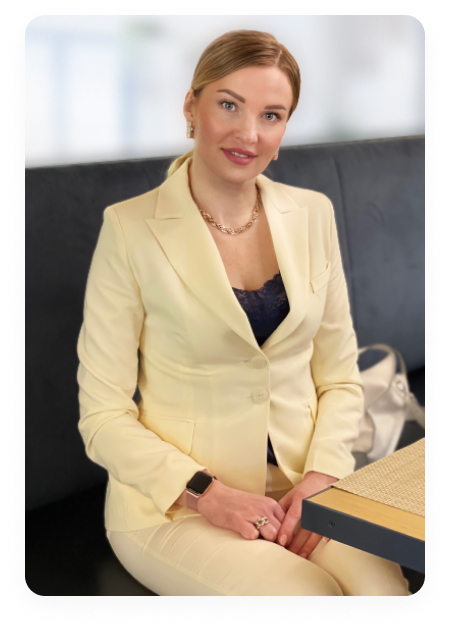
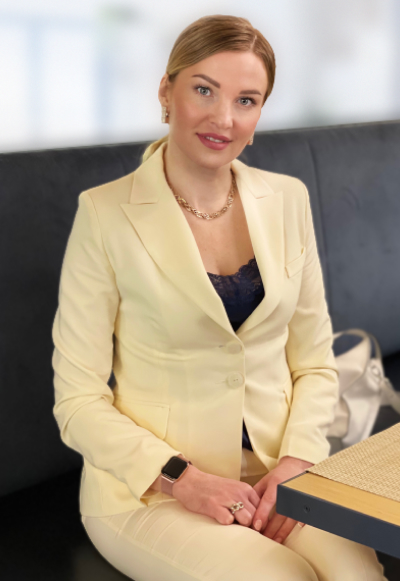
feat: implement company, features

diff --git a/src/css/index/company.scss b/src/css/index/company.scss
@@ -1,0 +1,66 @@
+.company {
+  padding: 8.2rem 0;
+
+  background-repeat: no-repeat;
+  background-position: center;
+  background-size: cover;
+}
+
+.company__inner {
+  display: flex;
+  align-items: center;
+}
+
+.company__img {
+  max-width: 40rem;
+
+  margin-right: 7rem;
+
+  filter: drop-shadow(0px 10px 25px rgba(0, 0, 0, 0.04));
+
+  img {
+    margin-bottom: 3.2rem;
+
+    border-radius: 20px;
+  }
+
+  figcaption {
+    text-align: center;
+    font-size: 2.2rem;
+    font-family: $font-secondary;
+
+    p:not(:last-child) {
+      margin-bottom: 1rem;
+    }
+
+    p:last-child {
+      font-size: 1.6rem;
+    }
+  }
+}
+
+.company__title {
+  max-width: 62rem;
+
+  margin-bottom: 2.1rem;
+
+  font-size: 2.6rem;
+  font-family: $font-secondary;
+
+  line-height: 3.9rem;
+}
+
+.company__info {
+  max-width: 70rem;
+}
+
+.company__txt {
+  line-height: 2.4rem;
+  text-align: justify;
+
+  p {
+    &:not(:last-child) {
+      margin-bottom: 2.1rem;
+    }
+  }
+}

diff --git a/src/css/index/features.scss b/src/css/index/features.scss
@@ -1,0 +1,53 @@
+.features {
+  padding: 8.2rem 0 10.4rem;
+
+  .decorator {
+    @include decorator(12rem);
+  }
+}
+
+.features__inner {
+  display: flex;
+  flex-wrap: wrap;
+  justify-content: space-between;
+
+  padding-top: 5.5rem;
+}
+
+.features__title {
+  text-align: center;
+  font-size: 3.2rem;
+  font-family: $font-secondary;
+
+  margin-bottom: 2.2rem;
+}
+
+.features__item {
+  width: 31.5%;
+
+  margin-bottom: 3rem;
+  padding: 4.7rem 3.5rem 7.4rem 3.5rem;
+
+  border: 1px solid $color-tertiary-beta;
+
+  text-align: center;
+}
+
+.features__icon {
+  margin-bottom: 3.4rem;
+
+  width: 50px;
+  height: 50px;
+}
+
+.features__item-title {
+  margin-bottom: 2.7rem;
+
+  font-weight: 600;
+}
+
+.features__item-txt {
+  color: $color-primary-omega;
+  line-height: 1.4;
+  font-size: 14px;
+}

diff --git a/src/css/mixins/decorator.scss b/src/css/mixins/decorator.scss
@@ -1,5 +1,8 @@
-@mixin decorator {
+@mixin decorator($width: 100%) {
   height: 6px;
+  width: $width;
+
+  margin: 0 auto;
 
   border-top: 2px solid $color-primary-psi;
   border-bottom: 2px solid $color-primary-alpha;

diff --git a/src/css/common/header.scss b/src/css/common/header.scss
@@ -125,7 +125,7 @@
 }
 
 .header__callback {
-  @include button(2rem, 3.4rem);
+  @include button(2rem, 3rem);
 
   font-size: 13px;
 }
